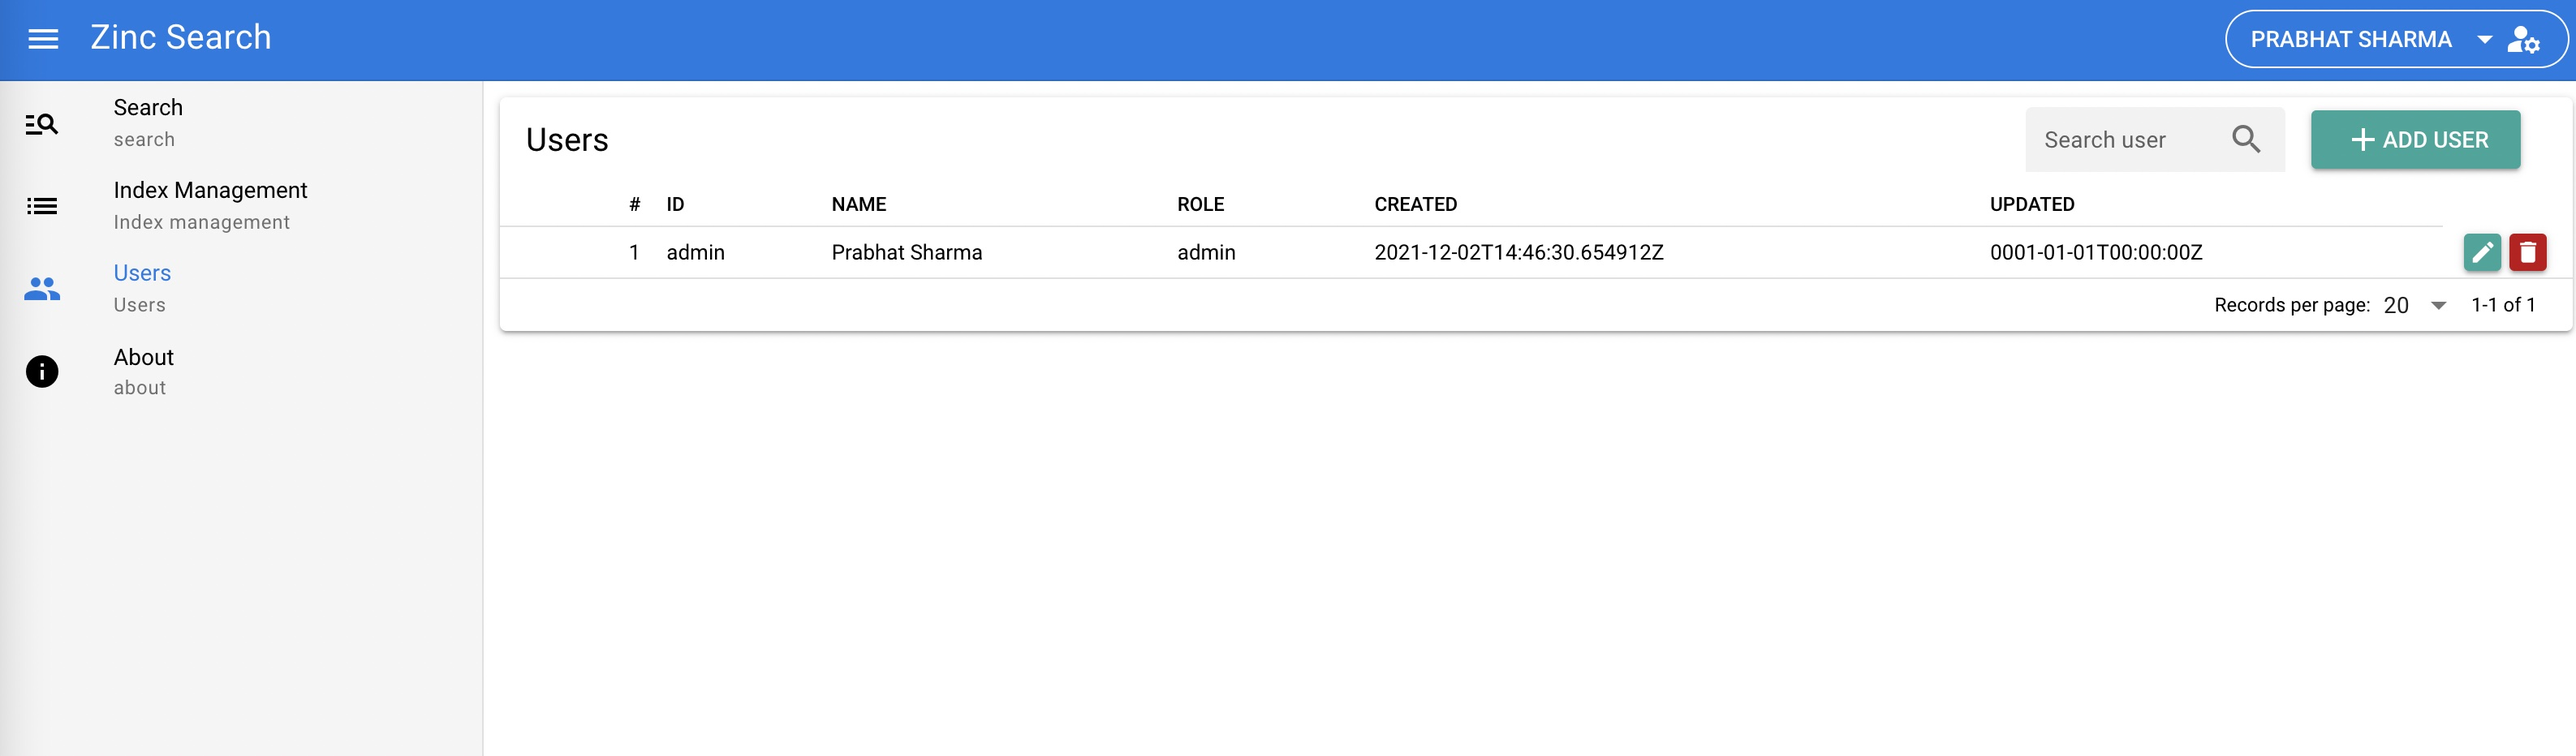
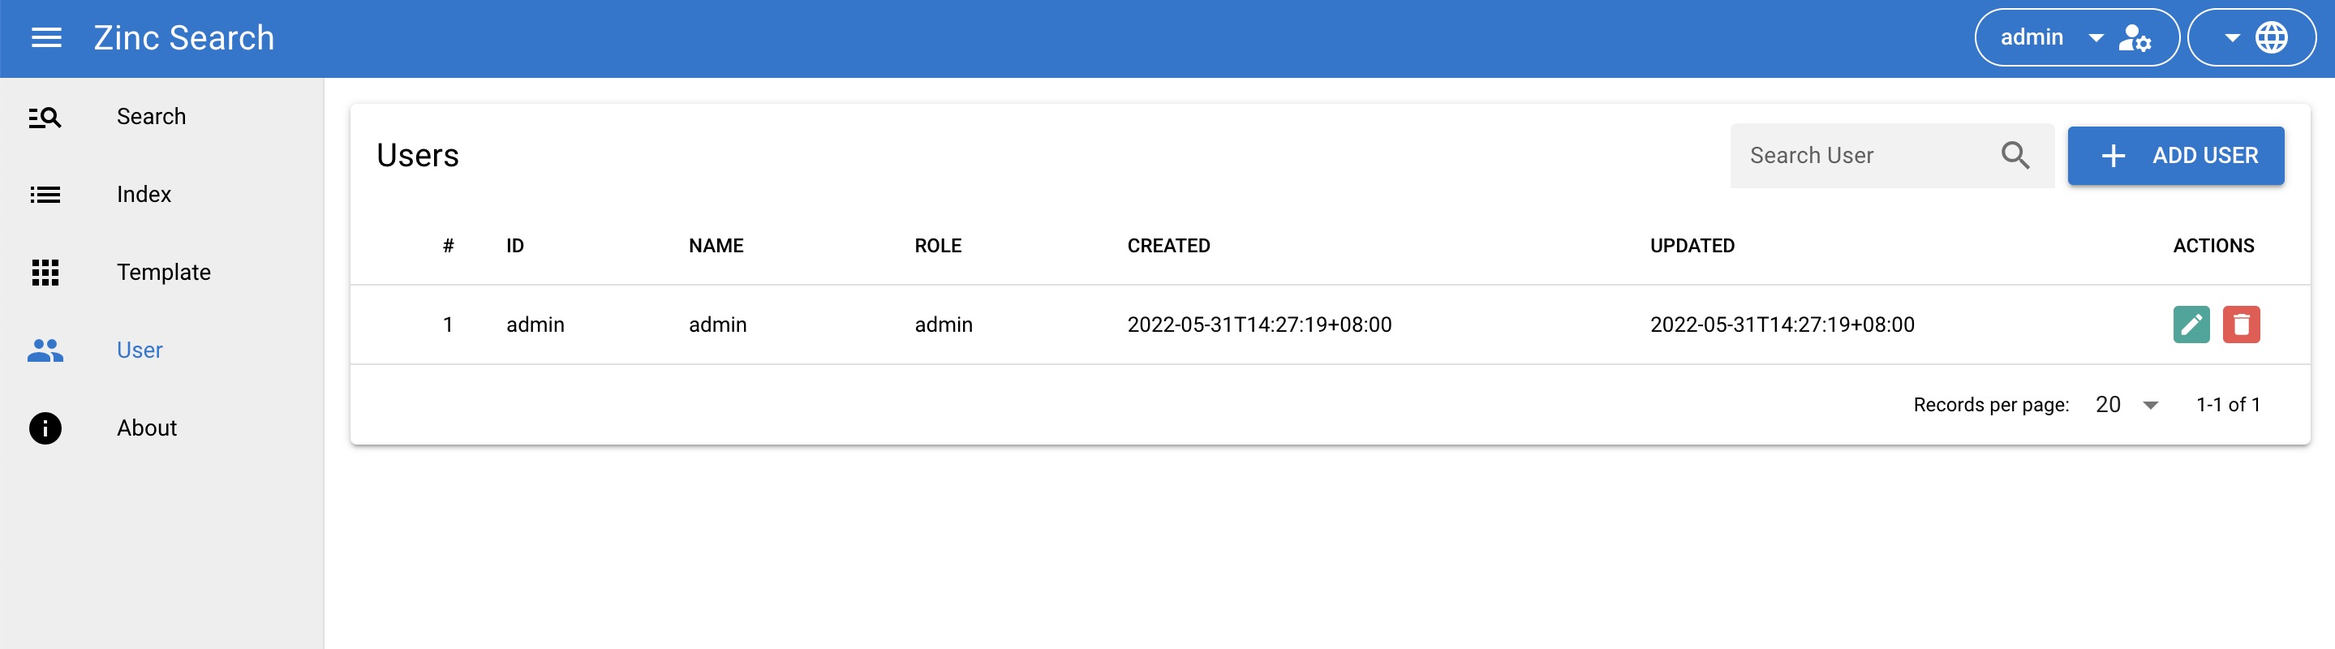
udpate screenshots (#198)

diff --git a/README.md b/README.md
@@ -50,8 +50,7 @@ Please create an issue if you would like something to be added to the roadmap.
 # Screenshots
 
 ## Search screen
-![Search screen 1](./screenshots/search_screen.jpg)
-![Search screen for games](./screenshots/search_screen_paris.jpg)
+![Search screen](./screenshots/search_screen.jpg)
 
 ## User management screen
 ![Users screen](./screenshots/users_screen.jpg)
